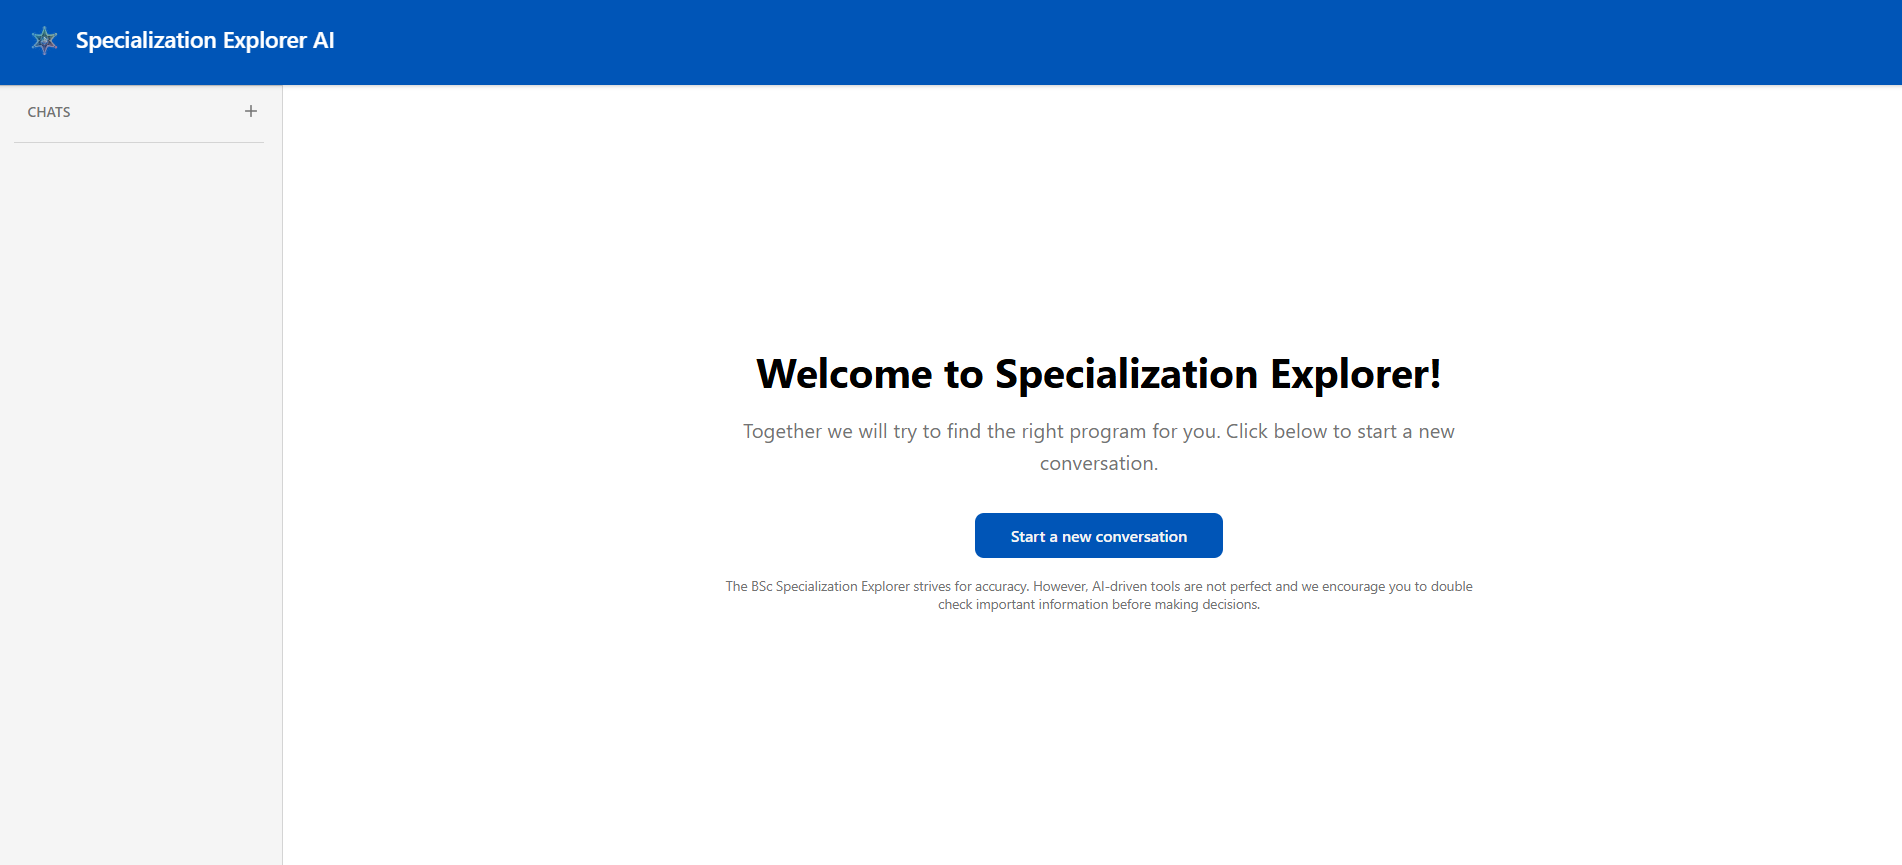
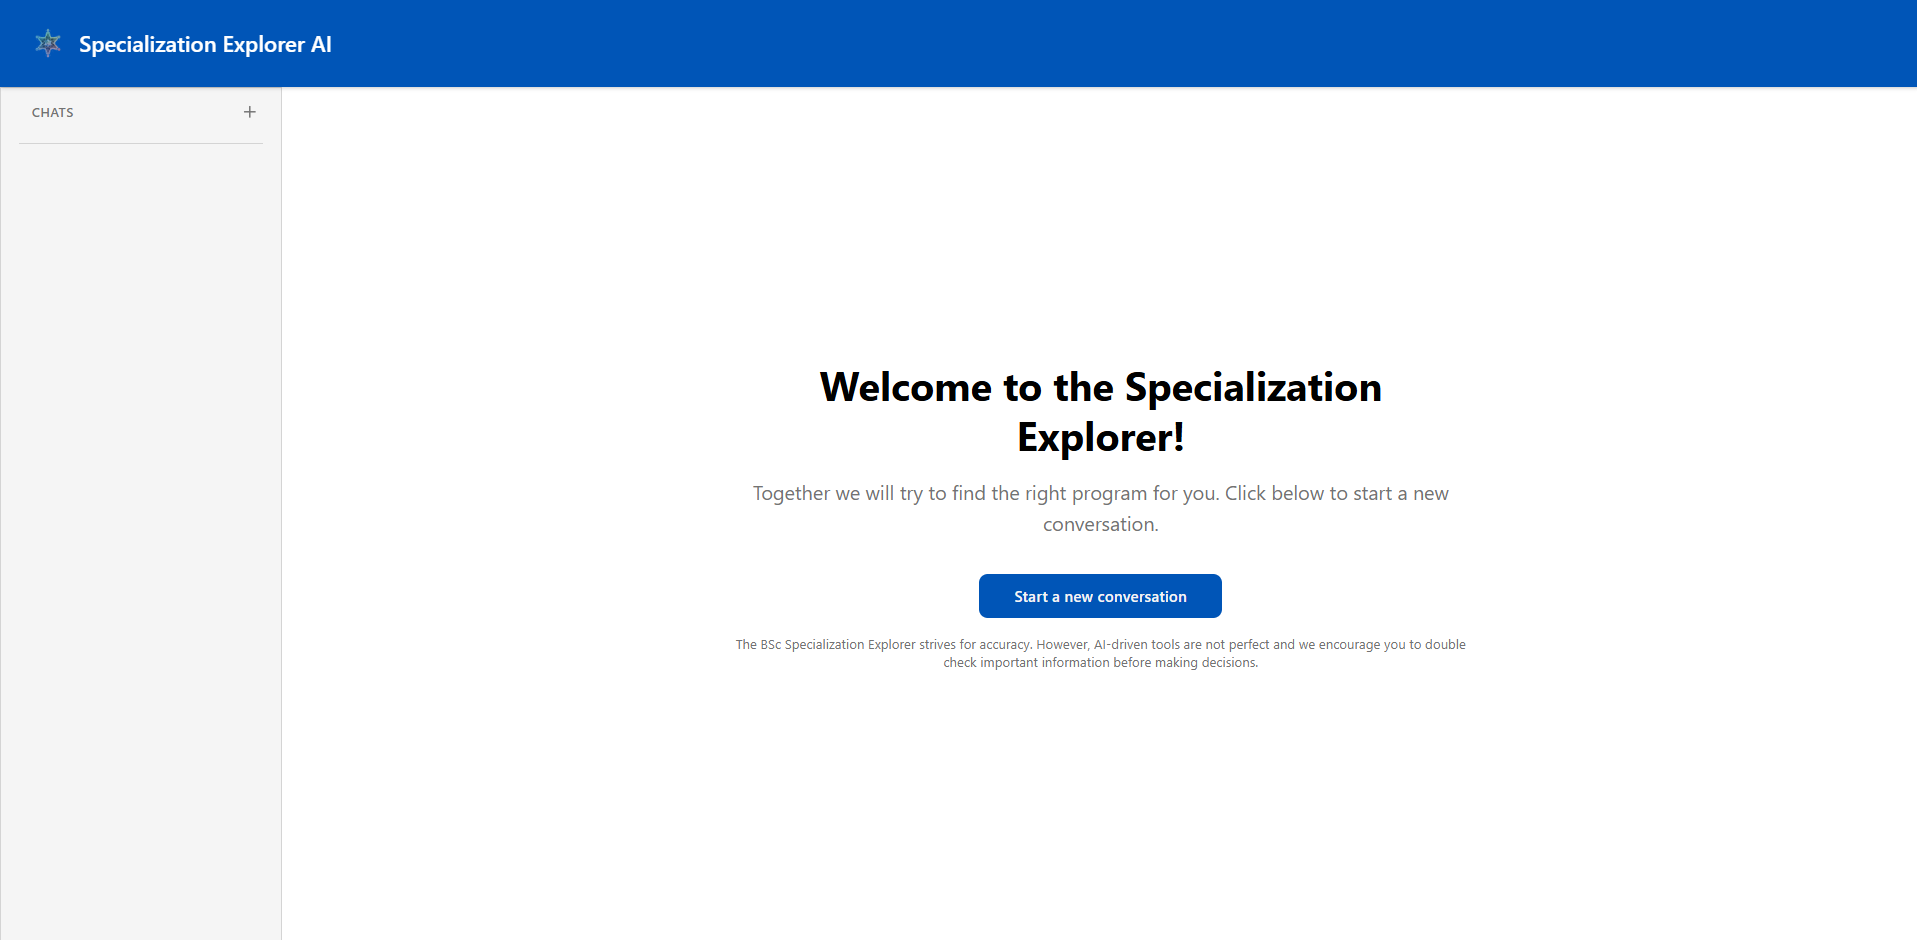
UPDATE README.md

diff --git a/Docs/USER_GUIDE.md b/Docs/USER_GUIDE.md
@@ -30,12 +30,6 @@ Users are immediately greeted with a welcome message and prompted to start a new
 
 ![image](./media/home-page.png)
 
-### Anonymous Pop-up
-
-If the user has not signed in, a pop-up may appear explaining the anonymous session behaviour.
-
-![image](./media/anonymous-pop-up.png)
-
 ### Chat Interface
 
 Each new chat starts with the assistant greeting the user and asking a series of questions to learn about their interests, study preferences, and goals. Once it has enough to go on, it switches to making recommendations.